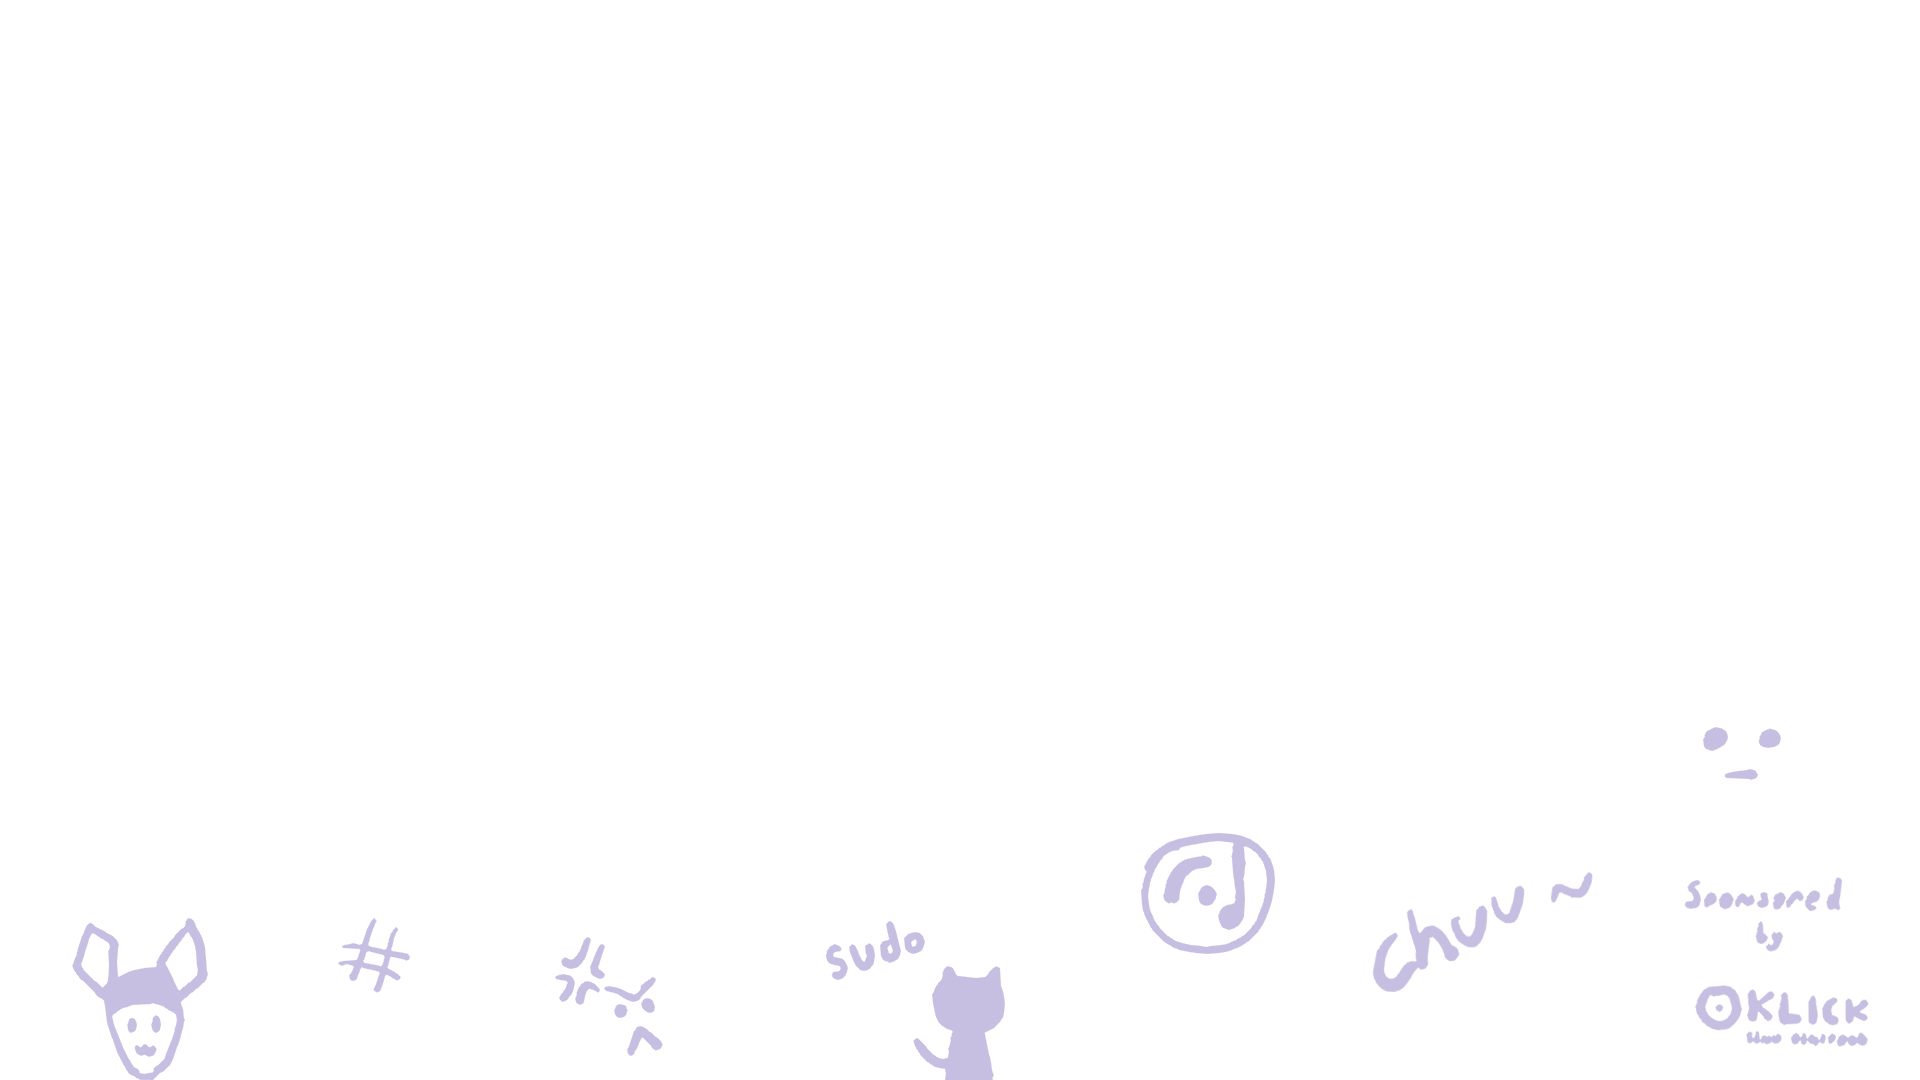
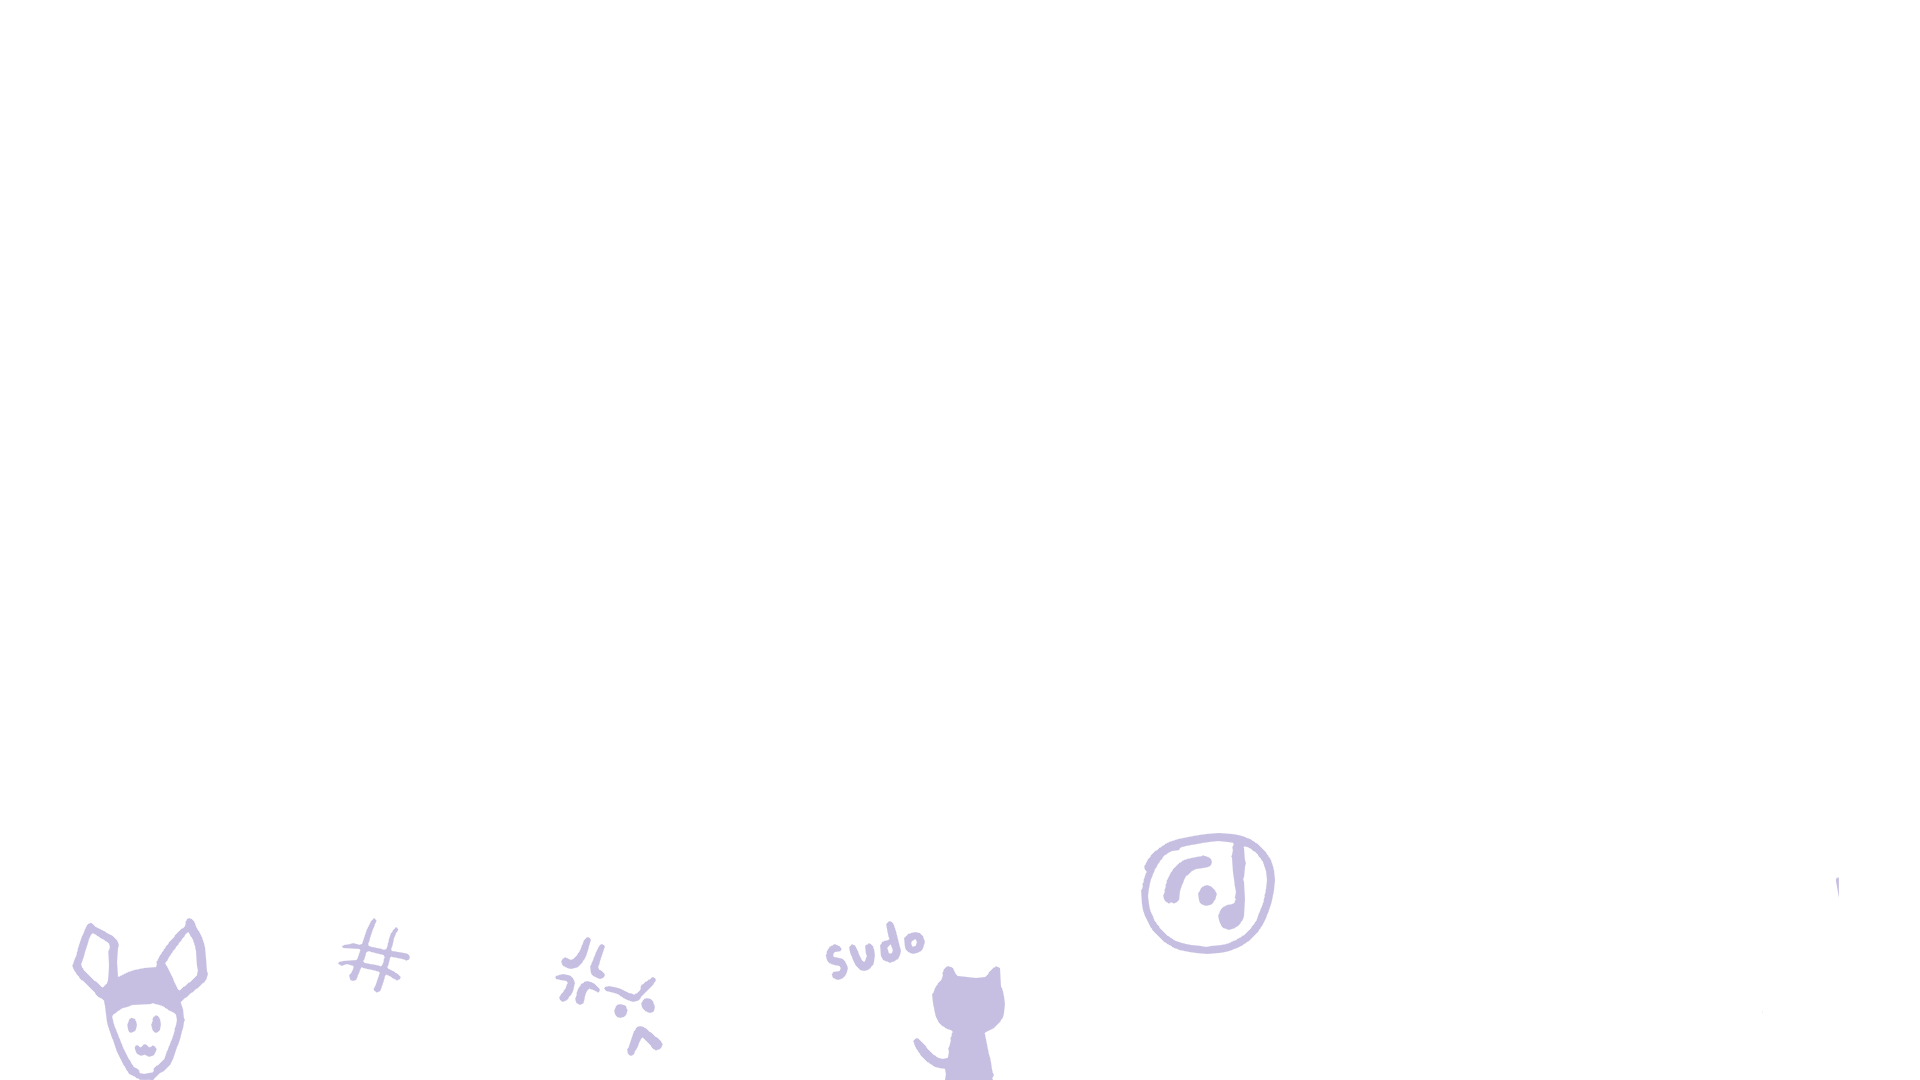
commit

diff --git a/index.html b/index.html
@@ -7,15 +7,35 @@
     <script src="https://unpkg.com/@tailwindcss/browser@4"></script>
     <link rel="stylesheet" href="style.css">
     <link rel="stylesheet" href="script.js">
+    <link rel="icon" href="images/purpleheart.png">
+
+ <!--background: url('/images/header.png'), url('images/footer.png');-->
+
 </head>
 <body>
-<main class="pl-45 mt-70">
+<header class="">
+    <div class="flex justify-between items-center w-full">
+        <div class="flex">
+            <p class="font-bold text-5xl">glaceon</p>
+            <p class="font-bold text-5xl text-violet-400">.</p>
+        </div>
+    
+        <div class="flex gap-8">
+            <p onclick="location.href='#EDUCATION'" class="font-bold text-3xl">education</p>
+            <p onclick="location.href='#LANGUAGES'" class="font-bold text-3xl">skills</p>
+        </div>
+    </div>
+</header>
+
+<main class="mt-70">
     <div class="flex flex-row">
         <div class="flex flex-col">
             <h1 class="font-bold text-7xl">FRONTEND</h1>
             <h2 class="text-violet-400 ml-10 text-7xl font-bold pb-5">DEVELOPER</h2>
         </div>
-            <a href=""><img class="glaceon w-55 rounded-xl" src="/images/MY BABY.gif"  HELP ME alt="">
+        
+        <img class="glaceon w-55 rounded-xl" src="/images/glaceon.gif">
+
     </div>
         <p class="text-xl">Hi! I'm <b><span class="text-violet-300">Glaceon.</span></b> A creative frontend developer with 1 year of experience.</p>
 
@@ -35,24 +55,88 @@
             </div>
         </div>
 
-
         <div class="flex gap-15">
-            <button class="bg-violet-700 p-3 w-30 mb-5 rounded-xl font-bold">Linkedin</button>
-            <button class="bg-violet-500 p-3 w-30 mb-5 rounded-xl font-bold">Projects</button>
-            <button class="bg-violet-400 p-3 w-30 mb-5 rounded-xl font-bold">CV</button>
+            <a onclick="location.href='#EDUCATION'" href="images/glaceon.gif"><button class="bg-violet-700 p-3 w-30 rounded-xl font-bold">Education</button></a>
+            <a onclick="location.href='#PROJECTS'"href="images/glaceon.gif"><button class="bg-violet-500 p-3 w-30 rounded-xl font-bold">Projects</button></a>
+            <a href="images/glaceon.gif"><button class="bg-violet-400 p-3 w-30 rounded-xl font-bold">CV</button></a>
         </div>
 </main>
-        
 
-        <div class="mt-60 flex items-center flex-col gap-3">
-            <h1 class="text-xl">Have a project in mind?</h1>
-            <p class="font-bold text-2xl">GLACEON@gmail.com</p>
-            <p>Copyright © 2025 GLACEON</p>
+<about>
+    <div class="flex flex-col items-center">
+        <div class="flex mt-30">
+                <h1 class="font-bold text-7xl">ABOUT</h1>
+                <h2 class="text-violet-400 ml-5 text-7xl font-bold pb-5">ME</h2>
+        </div>
+        <img class="h-1 w-100 mb-20" src="images/line.png">
+    </div>
+
+    <div class="flex gap-1">
+        <p class="text-2xl">Hi! My name is</p>
+        <p class="text-2xl text-violet-300"><b>Glaceon,</b></p>
+        <p class="text-2xl">I am a student and a <b>software developer.</b></p>
+
+        </p>
+
+        <div>
+            <img class="filter w-80 rounded-full" src="images/glaceonpfp.jpg" alt="">
+        </div>
+    </div>
+</about>
+
+<languages class="flex flex-col items-end ">
+    <div id="LANGUAGES" class="flex flex-col items-end">
+        <h1 class="font-bold text-7xl mt-50">MOST</h1>
+        <h2 class="text-violet-400 ml-10 text-7xl font-bold pb-5">PRACTICED</h2>
+    </div>
+
+    <img class="h-1 w-100 mb-20" src="images/line.png">
+
+    <div class="flex gap-15">
+        <div class="flex items-center gap-3">
+            <img class="h-15" src="images/python.png"><p class="font-bold text-2xl">Python</p>
+        </div>
+
+        <div class="flex items-center gap-3">
+            <img class="h-15" src="images/javascript.png"><p class="font-bold text-2xl">JavaScript</p>
+        </div>
+
+        <div class="flex items-center gap-3">
+            <img class="h-15" src="images/html.png"><p class="font-bold text-2xl">HTML</p>
+        </div>
+
+        <div class="flex items-center gap-3">
+            <img class="white h-15" src="images/css.png"><p class="font-bold text-2xl">CSS</p>
+        </div>
+
+        <div class="flex items-center gap-3">
+            <img class="h-15" src="images/tailwind.png"><p class="font-bold text-2xl">Tailwind</p>
+        </div>
+    </div>
+</languages>
+
+<education>
+    <div id="EDUCATION" class="flex flex-col mt-90">
+        <h1 class="font-bold text-7xl">MY</h1>
+        <h2 class="text-violet-400 ml-10 text-7xl font-bold pb-5">EDUCATION</h2>
+    </div>
+
+    <img class="h-1 w-100 mb-20 ml-10" src="images/line.png">
+</education>
+        
+<contact>
+    <div id="contact" class="mt-60 flex items-center flex-col gap-3">
+        <h1 class="text-xl">Have a project in mind?</h1>
+        <p class="font-bold text-2xl">glaceon@gmail.com</p>
+        <p>Copyright © 2025 GLACEON</p>
             <div class="flex flex-row gap-7">
                 <img class="mail w-10 rounded-full shadow-xl" src="/images/mail.jpg" alt="">
                 <img class="phone w-10 rounded-sm shadow-xl " src="/images/phone.png" alt="">
                 <img class="face w-10 rounded-sm shadow-xl" src="/images/facebook.svg" alt="">
             </div>
-        </div>
+    </div>
+</contact>
+
+
 </body>
 </html>

diff --git a/style.css b/style.css
@@ -3,10 +3,10 @@ html{
 }
 
 body{
+    margin-left: 150px;
+    margin-right: 150px;
     color: #ffffff;
     padding: 50px;
-    background: url('/images/header.png'),
-                url('/images/footer.png');
     background-repeat: no-repeat;
     background-size: 1650px;
 }
@@ -33,4 +33,7 @@ body{
     filter: hue-rotate(50deg);
 }
 
+.white{
+    filter: invert(100%)   
+  }
 @import url('https://fonts.googleapis.com/css2?family=Sora:wght@100..800&family=Urbanist:ital,wght@0,100..900;1,100..900&display=swap');
